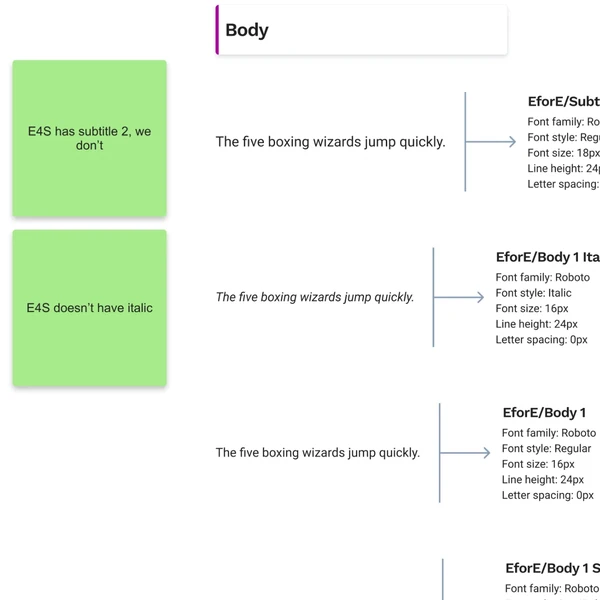
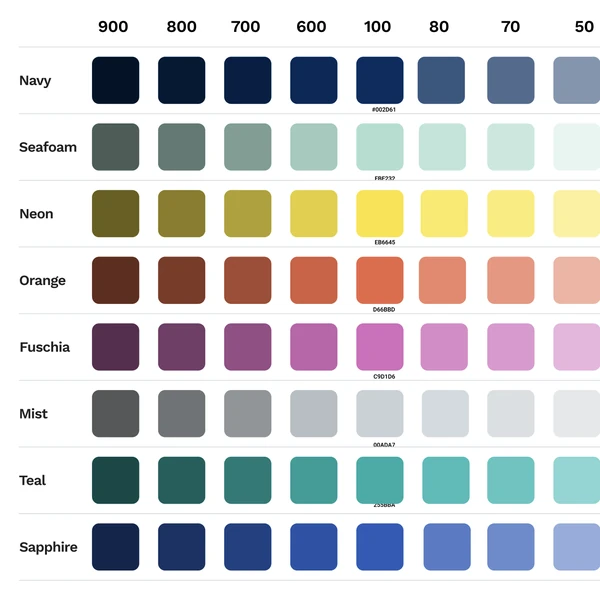
Swap the Design Systems polaroid for the colour palette
Replaces the typography spec, which was dense annotation that turned to
texture at the ~292px the polaroid renders at. The palette grid reads as a
system at a glance instead.

Source is 1712x1240 and the window is square, so the crop is left-anchored
rather than centred: that keeps all eight ramp names and the dark end of each
ramp, where a centre crop would have cut the labels off and left eight
unlabelled columns of swatches.

Alt text rewritten to describe the palette rather than the type specimens it
no longer shows. Both the root portfolio and the employer page keep their own
copy of the asset, per the split-asset setup, so both were updated and
verified byte-identical.

Claude-Session: https://claude.ai/code/session_01M63Twu6JA9C3NzuLc7GfKq

diff --git a/index.html b/index.html
@@ -755,7 +755,7 @@
         </figure>
         <figure class="polaroid">
           <div class="polaroid-photo">
-            <img src="assets/craft-design-system.webp" alt="Design system typography documentation: body text specimens annotated with font family, size, line height and letter spacing, with sticky notes tracking differences between products.">
+            <img src="assets/craft-design-system.webp" alt="A design system colour palette: eight named ramps — Navy, Seafoam, Neon, Orange, Fuschia, Mist, Teal and Sapphire — each stepped from darkest to lightest across numbered tint levels.">
           </div>
           <figcaption>Design Systems</figcaption>
         </figure>

diff --git a/modern-classroom-project/index.html b/modern-classroom-project/index.html
@@ -767,7 +767,7 @@
         </figure>
         <figure class="polaroid">
           <div class="polaroid-photo">
-            <img src="craft-design-system.webp" alt="Design system typography documentation: body text specimens annotated with font family, size, line height and letter spacing, with sticky notes tracking differences between products.">
+            <img src="craft-design-system.webp" alt="A design system colour palette: eight named ramps — Navy, Seafoam, Neon, Orange, Fuschia, Mist, Teal and Sapphire — each stepped from darkest to lightest across numbered tint levels.">
           </div>
           <figcaption>Design Systems</figcaption>
         </figure>
